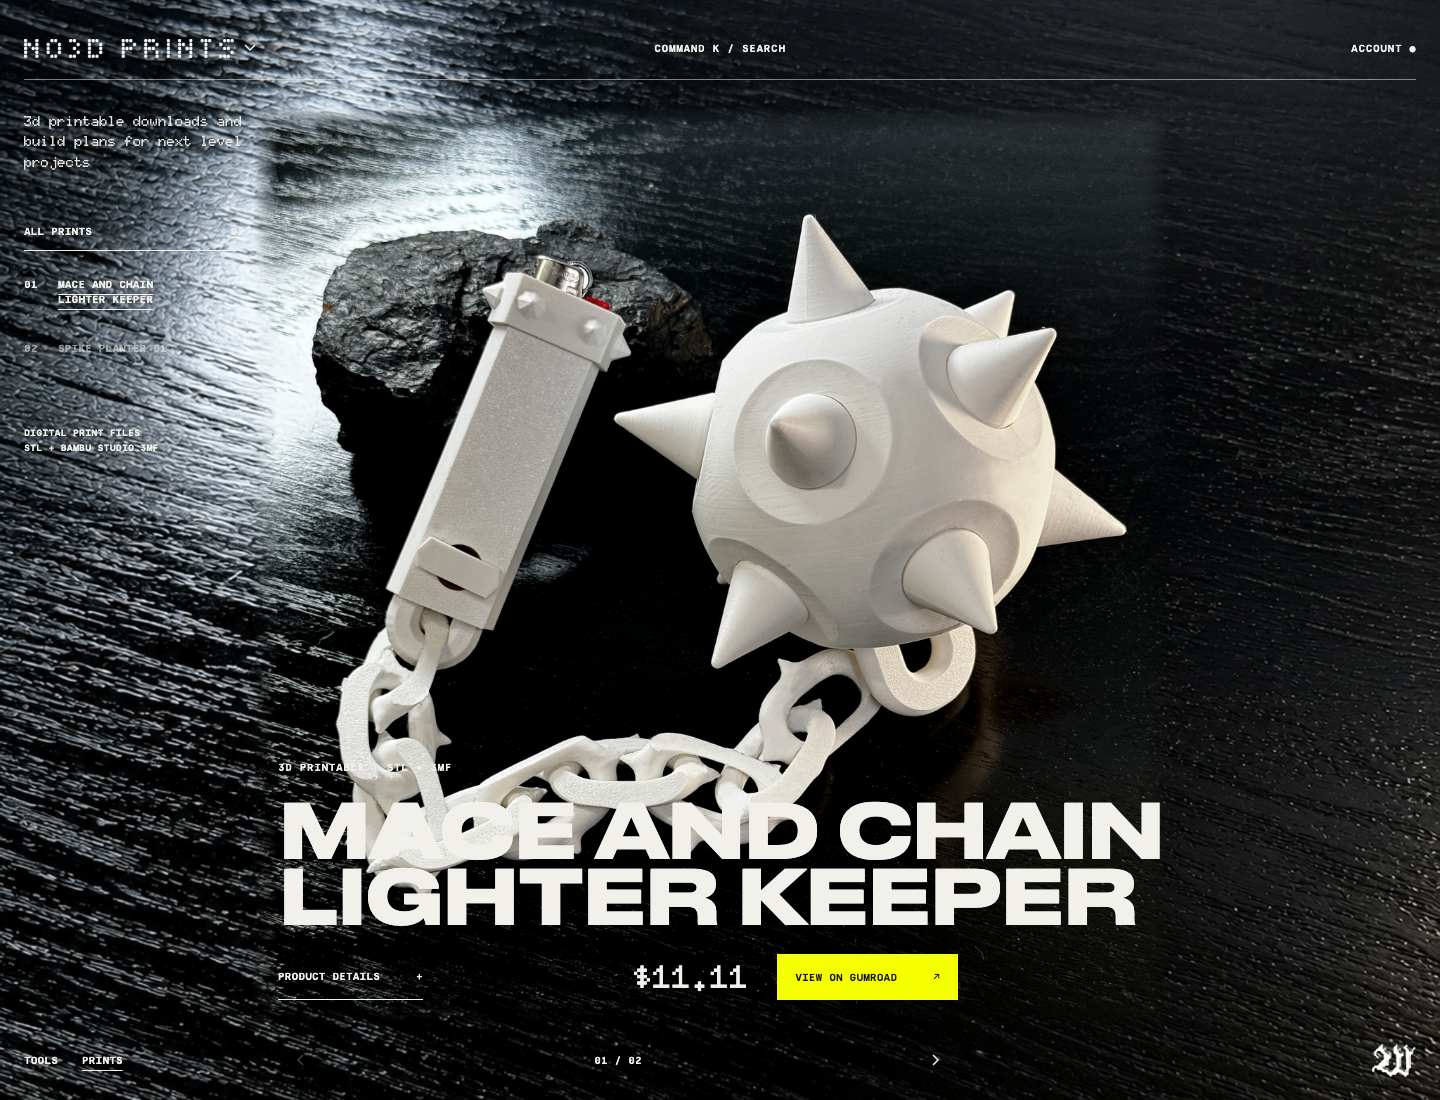
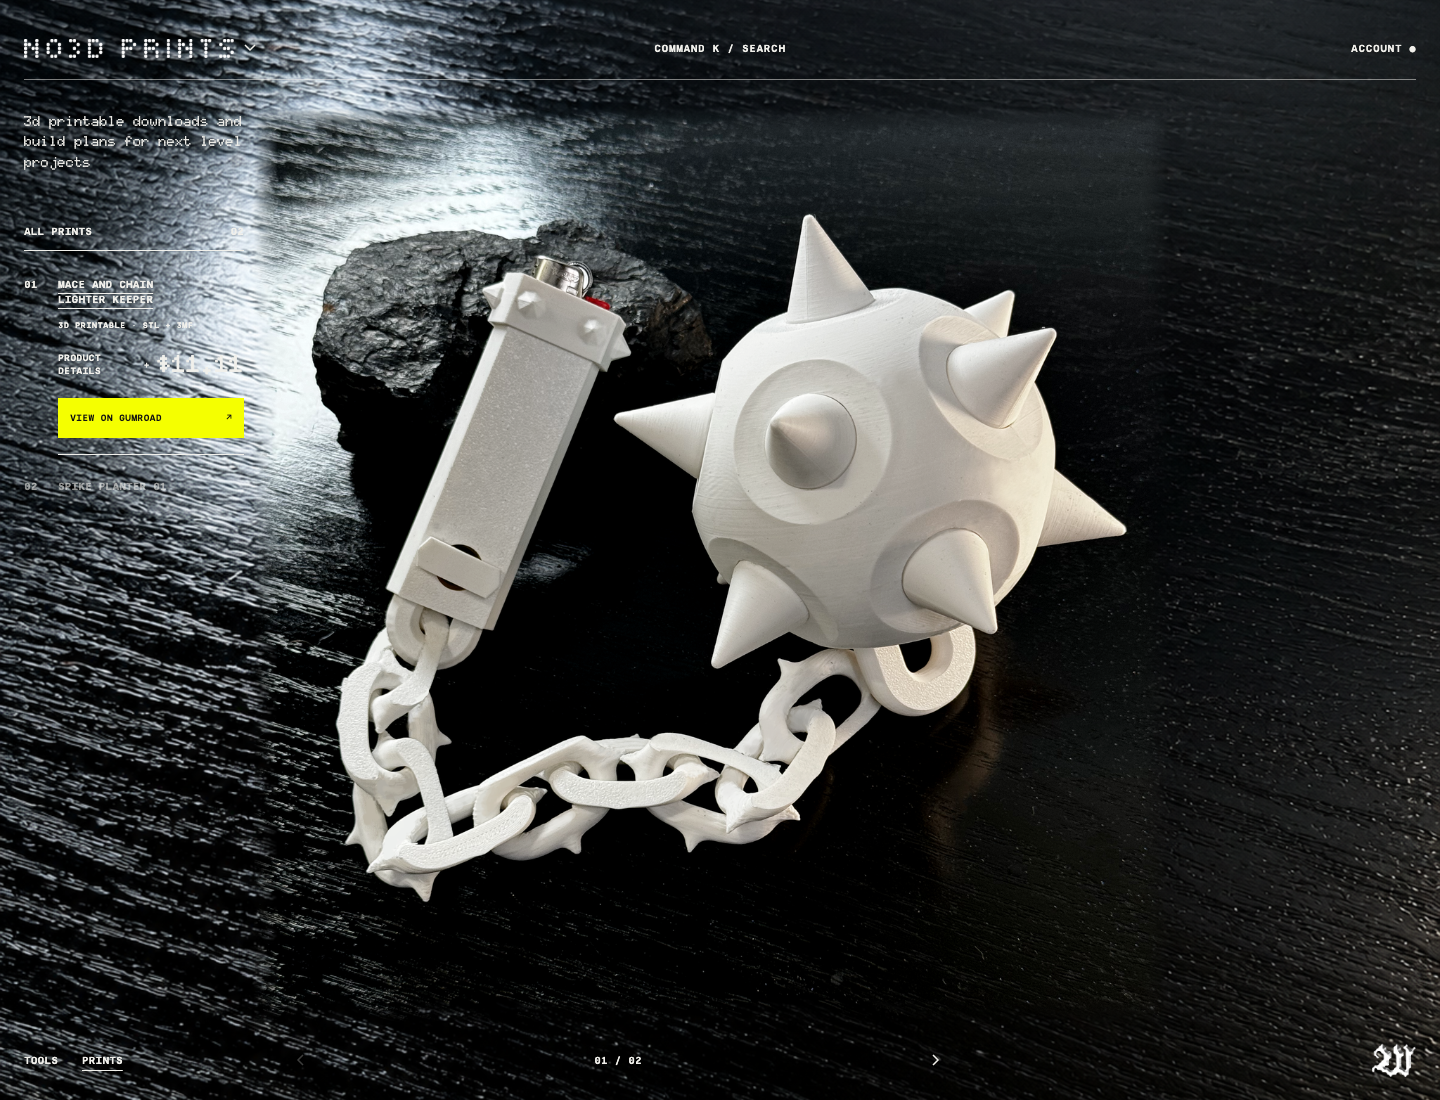
Move Prints product controls into the active catalog item

Changed region(s): [[0.1875, 0.68, 0.8125, 0.9273], [0.0312, 0.2782, 0.1875, 0.4327]]

diff --git a/v3/styles/prints.css b/v3/styles/prints.css
@@ -1,4 +1,4 @@
-.prints-page{--print-gutter:24px;--print-rail:220px;--print-copy-offset:calc(var(--print-gutter) + var(--print-rail) + 34px);background:var(--ink);height:100svh;overflow:hidden}
+.prints-page{--print-gutter:24px;--print-rail:220px;background:var(--ink);height:100svh;overflow:hidden}
 .prints-stage{position:fixed;inset:0}
 .prints-carousel{height:100%;display:flex;overflow-x:auto;overflow-y:hidden;scroll-snap-type:x mandatory;scrollbar-width:none;overscroll-behavior-x:contain;outline-offset:-4px;touch-action:pan-x pan-y}
 .prints-carousel::-webkit-scrollbar{display:none}
@@ -6,13 +6,6 @@
 .print-image{position:absolute;inset:0;display:block;z-index:-1}
 .print-image img{display:block;width:100%;height:100%;object-fit:cover;object-position:center 52%}
 .print-slide[data-product=spike-planter-01] .print-image img{object-position:center 58%}
-.print-copy{position:absolute;left:var(--print-copy-offset);right:var(--print-gutter);bottom:100px;color:var(--paper)}
-.print-type{margin:0 0 20px;font:600 10px var(--ui);text-transform:uppercase;letter-spacing:.045em}
-.print-copy h1,.print-copy h2{margin:0;max-width:1140px;font:700 clamp(44px,5.2vw,104px)/.88 var(--display);letter-spacing:-.045em;text-transform:uppercase}
-.print-purchase{display:flex;align-items:center;gap:28px;margin-top:28px;max-width:680px}
-.print-purchase button,.print-purchase a{display:flex;align-items:center;justify-content:space-between;gap:36px;min-height:46px;padding:12px 0;border:0;border-bottom:1px solid currentColor;background:transparent;color:inherit;font:600 10px/1.3 var(--ui);text-transform:uppercase;text-decoration:none;cursor:pointer}
-.print-purchase a{background:var(--yellow);color:var(--ink);padding:14px 18px;border:0}
-.print-price{margin-left:auto;font:900 32px/1 var(--body);font-variation-settings:'wght' 900,'ROND' 100;white-space:nowrap}
 .prints-chrome{position:fixed;inset:0;pointer-events:none;padding:18px var(--print-gutter);color:var(--paper)}
 .prints-chrome a,.prints-chrome button,.prints-chrome input,.prints-chrome nav,.prints-index{pointer-events:auto}
 .prints-chrome .v3-mast{position:relative;border-color:rgba(241,240,235,.5);min-height:62px}
@@ -20,14 +13,22 @@
 .prints-chrome .v3-search,.prints-chrome .v3-status{font-size:10px}
 .prints-chrome .storefront-brand{color:var(--paper)}
 .prints-chrome .storefront-destinations{pointer-events:auto}
-.prints-index{position:absolute;left:var(--print-gutter);top:112px;width:var(--print-rail)}
+.prints-index{position:absolute;left:var(--print-gutter);top:112px;bottom:84px;width:var(--print-rail);overflow-y:auto;scrollbar-width:thin;scrollbar-color:currentColor transparent}
 .prints-subheading{font:700 14px/1.45 var(--body);margin:0 0 52px;max-width:220px}
 .prints-index-heading{display:flex;justify-content:space-between;font:600 10px var(--ui);text-transform:uppercase;margin-bottom:18px;padding-bottom:12px;border-bottom:1px solid currentColor}
-.prints-products{display:grid;gap:18px}
-.prints-products button{display:grid;grid-template-columns:24px 1fr;gap:10px;min-height:44px;border:0;padding:8px 0;background:transparent;color:inherit;text-align:left;font:600 10px/1.5 var(--ui);text-transform:uppercase;cursor:pointer;opacity:.55}
-.prints-products button[aria-current=true],.prints-products button:hover{opacity:1}
-.prints-products button[aria-current=true] span:last-child{text-decoration:underline;text-underline-offset:6px}
-.prints-delivery{margin-top:48px;font:600 9px/1.7 var(--ui);text-transform:uppercase}
+.prints-products{display:grid;gap:14px;margin:0;padding:0;list-style:none}
+.print-item{min-width:0}
+.print-item h2{margin:0;font:inherit}
+.print-item-toggle{display:grid;grid-template-columns:24px minmax(0,1fr);gap:10px;width:100%;min-height:44px;border:0;padding:8px 0;background:transparent;color:inherit;text-align:left;font:600 10px/1.5 var(--ui);text-transform:uppercase;cursor:pointer;opacity:.55}
+.print-item-toggle[aria-current=true],.print-item-toggle:hover{opacity:1}
+.print-item-toggle[aria-current=true] span:last-child{text-decoration:underline;text-underline-offset:5px}
+.print-item-details{margin:4px 0 2px 34px;padding-bottom:16px;border-bottom:1px solid currentColor}
+.print-type{margin:0 0 12px;font:600 8px/1.5 var(--ui);text-transform:uppercase;letter-spacing:.025em}
+.print-item-actions{display:grid;grid-template-columns:minmax(0,1fr) auto;align-items:center;gap:12px 8px}
+.print-item-actions button,.print-item-actions a{display:flex;align-items:center;justify-content:space-between;gap:8px;min-height:36px;border:0;padding:8px 0;background:transparent;color:inherit;font:600 9px/1.5 var(--ui);text-align:left;text-transform:uppercase;text-decoration:none;cursor:pointer}
+.print-item-actions button:hover{text-decoration:underline;text-underline-offset:4px}
+.print-item-actions a{grid-column:1/-1;min-height:40px;padding:10px 12px;background:var(--yellow);color:var(--ink)}
+.print-price{font:900 24px/1 var(--body);font-variation-settings:'wght' 900,'ROND' 100;white-space:nowrap}
 .prints-footer{position:absolute;bottom:18px;left:var(--print-gutter);right:var(--print-gutter);height:44px;display:grid;grid-template-columns:var(--print-rail) 1fr auto;align-items:center;gap:34px}
 .prints-footer-links{display:flex;gap:24px;font:600 10px var(--ui);text-transform:uppercase}
 .prints-footer-links a{text-decoration:none}.prints-footer-links a[aria-current]{text-decoration:underline;text-underline-offset:6px}
@@ -49,21 +50,18 @@
 .print-details-link{display:inline-block;margin-top:18px;padding:16px 20px;background:var(--yellow);font:600 11px var(--ui);text-decoration:none;text-transform:uppercase}
 .visually-hidden,.prints-skip{position:absolute;width:1px;height:1px;padding:0;margin:-1px;overflow:hidden;clip:rect(0,0,0,0);white-space:nowrap;border:0}
 .prints-skip:focus{z-index:100;width:auto;height:auto;clip:auto;inset:8px auto auto 8px;margin:0;padding:16px;background:var(--paper);color:var(--ink)}
-@media(min-width:1800px){.print-copy{bottom:130px}}
-@media(max-width:1000px){.prints-page{--print-rail:184px;--print-copy-offset:calc(var(--print-gutter) + var(--print-rail) + 24px)}.print-copy h1,.print-copy h2{font-size:6.3vw}.prints-subheading{font-size:13px}.print-purchase{gap:16px}.print-price{font-size:28px}.print-purchase a{gap:16px}}
+@media(max-width:1000px){.prints-subheading{font-size:13px}}
 @media(max-width:650px){
-  .prints-page{--print-gutter:12px;--print-copy-offset:12px}
+  .prints-page{--print-gutter:12px}
   .prints-chrome{padding-top:10px}.prints-chrome .v3-mast{display:grid;grid-template-columns:1fr auto auto;gap:8px;min-height:52px}
   .prints-chrome .v3-search{grid-column:2;grid-row:1;padding:10px 0;font-size:8px}.prints-chrome .v3-status{grid-column:3;grid-row:1;font-size:8px}
-  .prints-index{top:84px;width:calc(100% - 24px)}
-  .prints-subheading{max-width:245px;margin:0;font-size:13px;line-height:1.4}
-  .prints-index-heading,.prints-products,.prints-delivery{display:none}
-  .print-copy{bottom:89px}.print-copy h1,.print-copy h2{font-size:clamp(31px,9.1vw,59px);line-height:.92;letter-spacing:-.045em}
-  .print-type{font-size:9px;margin-bottom:16px}
-  .print-purchase{display:grid;grid-template-columns:1fr auto;gap:12px;margin-top:22px}
-  .print-price{font-size:28px;margin:0;grid-column:2;grid-row:1}
-  .print-purchase button{justify-content:flex-start;gap:22px;width:max-content;font-size:9px;min-height:38px}
-  .print-purchase a{grid-column:1/-1;justify-content:space-between;min-height:46px;font-size:10px;padding:14px}
+  .prints-index{top:84px;bottom:76px;width:calc(100% - 24px);display:flex;flex-direction:column;pointer-events:none}
+  .prints-subheading{max-width:245px;margin:0 0 24px;font-size:13px;line-height:1.4;pointer-events:auto}
+  .prints-index-heading{display:none}
+  .prints-products{margin-top:auto;gap:10px;pointer-events:auto}
+  .print-item-details{padding-bottom:10px;margin-top:0}
+  .print-type{margin-bottom:6px}
+  .print-item-actions{gap:6px 12px}
   .print-image img{object-position:58% center}.print-slide[data-product=spike-planter-01] .print-image img{object-position:center 48%}
   .prints-footer{grid-template-columns:1fr 170px 30px;gap:12px;bottom:12px}
   .prints-footer-links{font-size:8px;gap:16px}.prints-pagination{font-size:9px;gap:12px}.prints-stone{width:30px;height:30px}

diff --git a/v3/prints/index.html b/v3/prints/index.html
@@ -14,22 +14,13 @@
 <body class="prints-page" data-storefront="prints">
   <a class="prints-skip" href="#print-carousel">Skip to prints</a>
   <main class="prints-stage" aria-label="Printable downloads">
+    <h1 class="visually-hidden">NO3D Prints</h1>
     <div class="prints-carousel" id="print-carousel" data-print-carousel tabindex="0" role="region" aria-roledescription="carousel" aria-label="Print download products">
       <article class="print-slide" data-product="mace-and-chain" role="group" aria-roledescription="slide" aria-label="1 of 2: Mace and Chain Lighter Keeper">
         <picture class="print-image"><img src="/v3/assets/prints/mace-chain-expanded-2048.png" alt="White 3D printed Mace and Chain Lighter Keeper on a dark wood surface" fetchpriority="high" width="2048" height="2048"></picture>
-        <div class="print-copy">
-          <p class="print-type">3D printable · STL + 3MF</p>
-          <h1>Mace and Chain<br>Lighter Keeper</h1>
-          <div class="print-purchase"><button type="button" data-details="mace-and-chain">Product details <span>+</span></button><span class="print-price">$11.11</span><a href="https://nodedojo.gumroad.com/l/jvbin" target="_blank" rel="noopener noreferrer">View on Gumroad <span>↗</span></a></div>
-        </div>
       </article>
       <article class="print-slide" data-product="spike-planter-01" role="group" aria-roledescription="slide" aria-label="2 of 2: Spike Planter 01" inert>
         <picture class="print-image"><img src="/v3/assets/prints/spike-planter-expanded-2048.png" alt="3D printed Spike Planter 01 with raised spikes and a screw-in drip tray" width="2048" height="2048"></picture>
-        <div class="print-copy">
-          <p class="print-type">3D printable · STL + 3MF</p>
-          <h2>Spike Planter 01</h2>
-          <div class="print-purchase"><button type="button" data-details="spike-planter-01">Product details <span>+</span></button><span class="print-price">$11.11</span><a href="https://nodedojo.gumroad.com/l/spike-planter-01" target="_blank" rel="noopener noreferrer">View on Gumroad <span>↗</span></a></div>
-        </div>
       </article>
     </div>
     <p class="prints-empty" data-prints-empty hidden>No prints match this search.</p>
@@ -44,11 +35,22 @@
     <aside class="prints-index" aria-label="Print catalog">
       <p class="prints-subheading">3d printable downloads and build plans for next level projects</p>
       <div class="prints-index-heading"><span>All Prints</span><span data-result-count>02</span></div>
-      <nav class="prints-products" aria-label="Choose a print">
-        <button type="button" data-go-product="mace-and-chain" aria-current="true"><span>01</span><span>Mace and Chain<br>Lighter Keeper</span></button>
-        <button type="button" data-go-product="spike-planter-01"><span>02</span><span>Spike Planter 01</span></button>
-      </nav>
-      <p class="prints-delivery">Digital print files<br>STL + Bambu Studio 3MF</p>
+      <ol class="prints-products" aria-label="Choose a print">
+        <li class="print-item" data-print-item="mace-and-chain">
+          <h2><button type="button" class="print-item-toggle" data-go-product="mace-and-chain" id="print-name-mace" aria-current="true" aria-expanded="true" aria-controls="print-info-mace"><span>01</span><span>Mace and Chain<br>Lighter Keeper</span></button></h2>
+          <div class="print-item-details" id="print-info-mace" role="region" aria-labelledby="print-name-mace">
+            <p class="print-type">3D printable · STL + 3MF</p>
+            <div class="print-item-actions"><button type="button" data-details="mace-and-chain">Product details <span aria-hidden="true">+</span></button><span class="print-price">$11.11</span><a href="https://nodedojo.gumroad.com/l/jvbin" target="_blank" rel="noopener noreferrer">View on Gumroad <span aria-hidden="true">↗</span></a></div>
+          </div>
+        </li>
+        <li class="print-item" data-print-item="spike-planter-01">
+          <h2><button type="button" class="print-item-toggle" data-go-product="spike-planter-01" id="print-name-planter" aria-current="false" aria-expanded="false" aria-controls="print-info-planter"><span>02</span><span>Spike Planter 01</span></button></h2>
+          <div class="print-item-details" id="print-info-planter" role="region" aria-labelledby="print-name-planter" hidden>
+            <p class="print-type">3D printable · STL + 3MF</p>
+            <div class="print-item-actions"><button type="button" data-details="spike-planter-01">Product details <span aria-hidden="true">+</span></button><span class="print-price">$11.11</span><a href="https://nodedojo.gumroad.com/l/spike-planter-01" target="_blank" rel="noopener noreferrer">View on Gumroad <span aria-hidden="true">↗</span></a></div>
+          </div>
+        </li>
+      </ol>
     </aside>
     <footer class="prints-footer">
       <nav aria-label="NO3D storefronts" class="prints-footer-links"><a href="/v3/">Tools</a><a href="/v3/prints/" aria-current="page">Prints</a></nav>

diff --git a/v3/js/prints.js b/v3/js/prints.js
@@ -2,6 +2,7 @@ import { printProducts } from '../data/prints/catalog.js';
 
 const carousel = document.querySelector('[data-print-carousel]');
 const slides = [...carousel.querySelectorAll('[data-product]')];
+const productItems = [...document.querySelectorAll('[data-print-item]')];
 const previous = document.querySelector('[data-print-previous]');
 const next = document.querySelector('[data-print-next]');
 const search = document.querySelector('#print-search');
@@ -23,10 +24,18 @@ function updateActive(index, updateUrl = true) {
   next.disabled = active >= visible.length - 1;
   document.querySelector('[data-print-position]').textContent = `${number(current ? active + 1 : 0)} / ${number(visible.length)}`;
   document.querySelector('[data-result-count]').textContent = number(visible.length);
-  for (const button of document.querySelectorAll('[data-go-product]')) {
-    button.hidden = !visible.some(slide => slide.dataset.product === button.dataset.goProduct);
-    button.setAttribute('aria-current', String(button.dataset.goProduct === current?.dataset.product));
+  let restoreListFocus = false;
+  for (const item of productItems) {
+    const button = item.querySelector('[data-go-product]');
+    const panel = item.querySelector('.print-item-details');
+    const selected = item.dataset.printItem === current?.dataset.product;
+    if (!selected && panel.contains(document.activeElement)) restoreListFocus = true;
+    item.hidden = !visible.some(slide => slide.dataset.product === item.dataset.printItem);
+    button.setAttribute('aria-current', String(selected));
+    button.setAttribute('aria-expanded', String(selected));
+    panel.hidden = !selected;
   }
+  if (restoreListFocus) document.querySelector('[data-go-product][aria-current="true"]')?.focus();
   const product = printProducts.find(item => item.slug === current?.dataset.product);
   document.querySelector('[data-print-announcement]').textContent = product ? `${product.name}, ${active + 1} of ${visible.length}` : 'No prints match this search.';
   if (updateUrl && current) {

diff --git a/docs/design/v3/prints/README.md b/docs/design/v3/prints/README.md
@@ -6,6 +6,8 @@ This local candidate implements Tools ↔ Prints switching and a full-bleed Prin
 
 Joe's 2026-10-28 direction: use the existing NO3D design language and UX, replacing the dense tool shelf with viewport-filling product photography beneath overlaid text. The carousel supports previous/next controls, horizontal swipe/scroll, vertical mouse-wheel advancement, keyboard arrows, and a product index. There is no autoplay.
 
+The latest review moves all product information and actions out of the photograph into the product list. The active row expands to show file format, price, Product details, and View on Gumroad; other rows retain only their number and title. Clicking a row, using the carousel controls, swiping, keyboard navigation, search, and direct product URLs keep that expanded row synchronized with the visible photograph. The photo slides contain no title or purchase overlay. Desktop keeps this compact list in the left rail; on phones it sits near the bottom of the viewport above the footer, with the introductory subheading remaining near the masthead. The details dialog retains the full original product description and included files.
+
 The masthead switches between the existing Tools and Prints wordmarks. The Prints subheading is Joe's exact first draft:
 
 > 3d printable downloads and build plans for next level projects
@@ -61,7 +63,7 @@ npm run acceptance:prints
 npm audit
 ```
 
-Prints acceptance covers desktop/mobile fit, loaded images, opaque title styling, section selection, keyboard navigation, deep-link refresh, detail content/links, search/empty states, local-only asset requests, rejected checkout writes, protected filesystem paths, and navigation back to Tools. Screenshots and the results receipt are written to `/tmp/no3d-prints-acceptance`.
+Prints acceptance covers desktop/mobile fit, loaded images, opaque list typography, one expanded product at a time, list/carousel synchronization, no purchase overlay on the photo, section selection, keyboard navigation, deep-link refresh, detail content/links, search/empty states, local-only asset requests, rejected checkout writes, protected filesystem paths, and navigation back to Tools. Screenshots and the results receipt are written to `/tmp/no3d-prints-acceptance`.
 
 The inherited dependency audit reports nine advisories: four low, one moderate, and four high. The high findings are in the Puppeteer development dependency tree (`puppeteer`, `puppeteer-core`, `chromium-bidi`, `zod`). Dependencies and lockfile have not been changed for this visual candidate.
 
